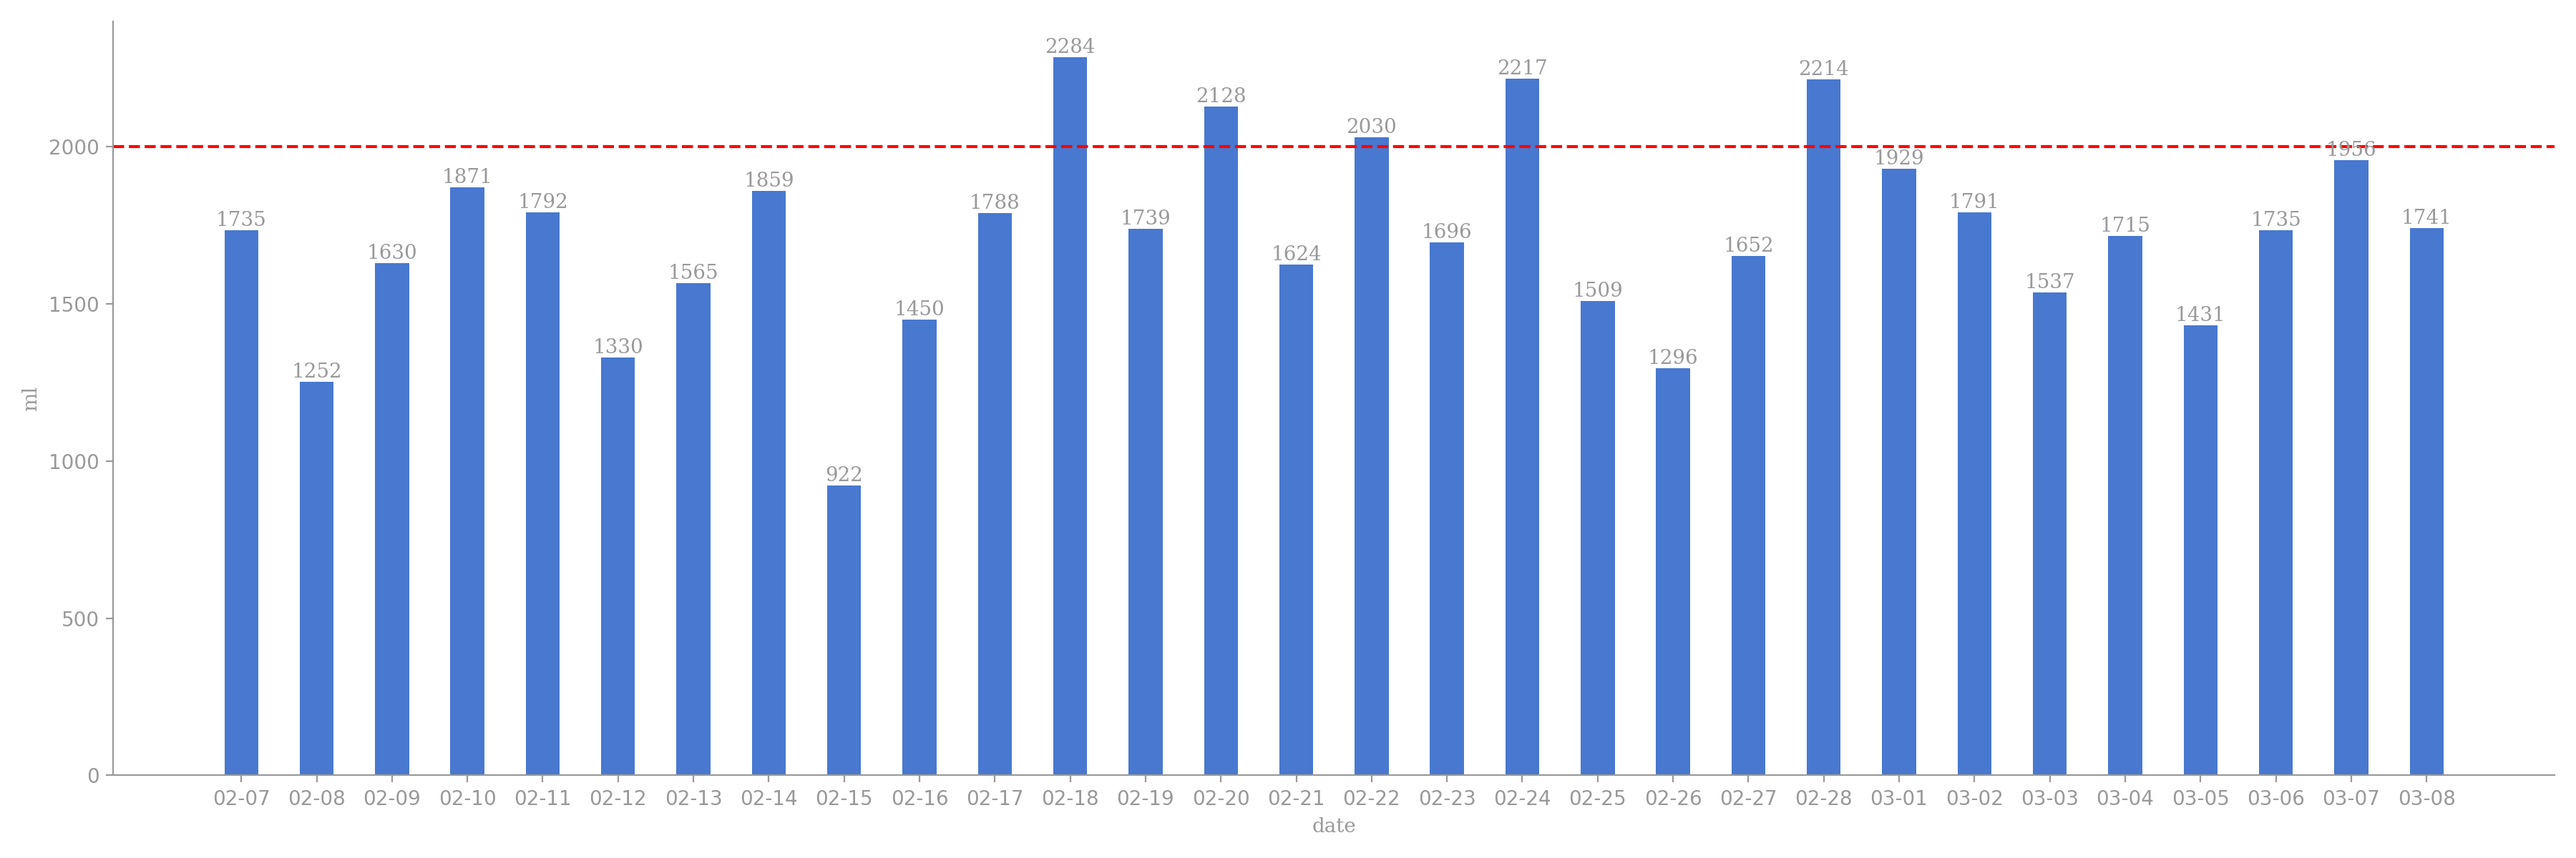
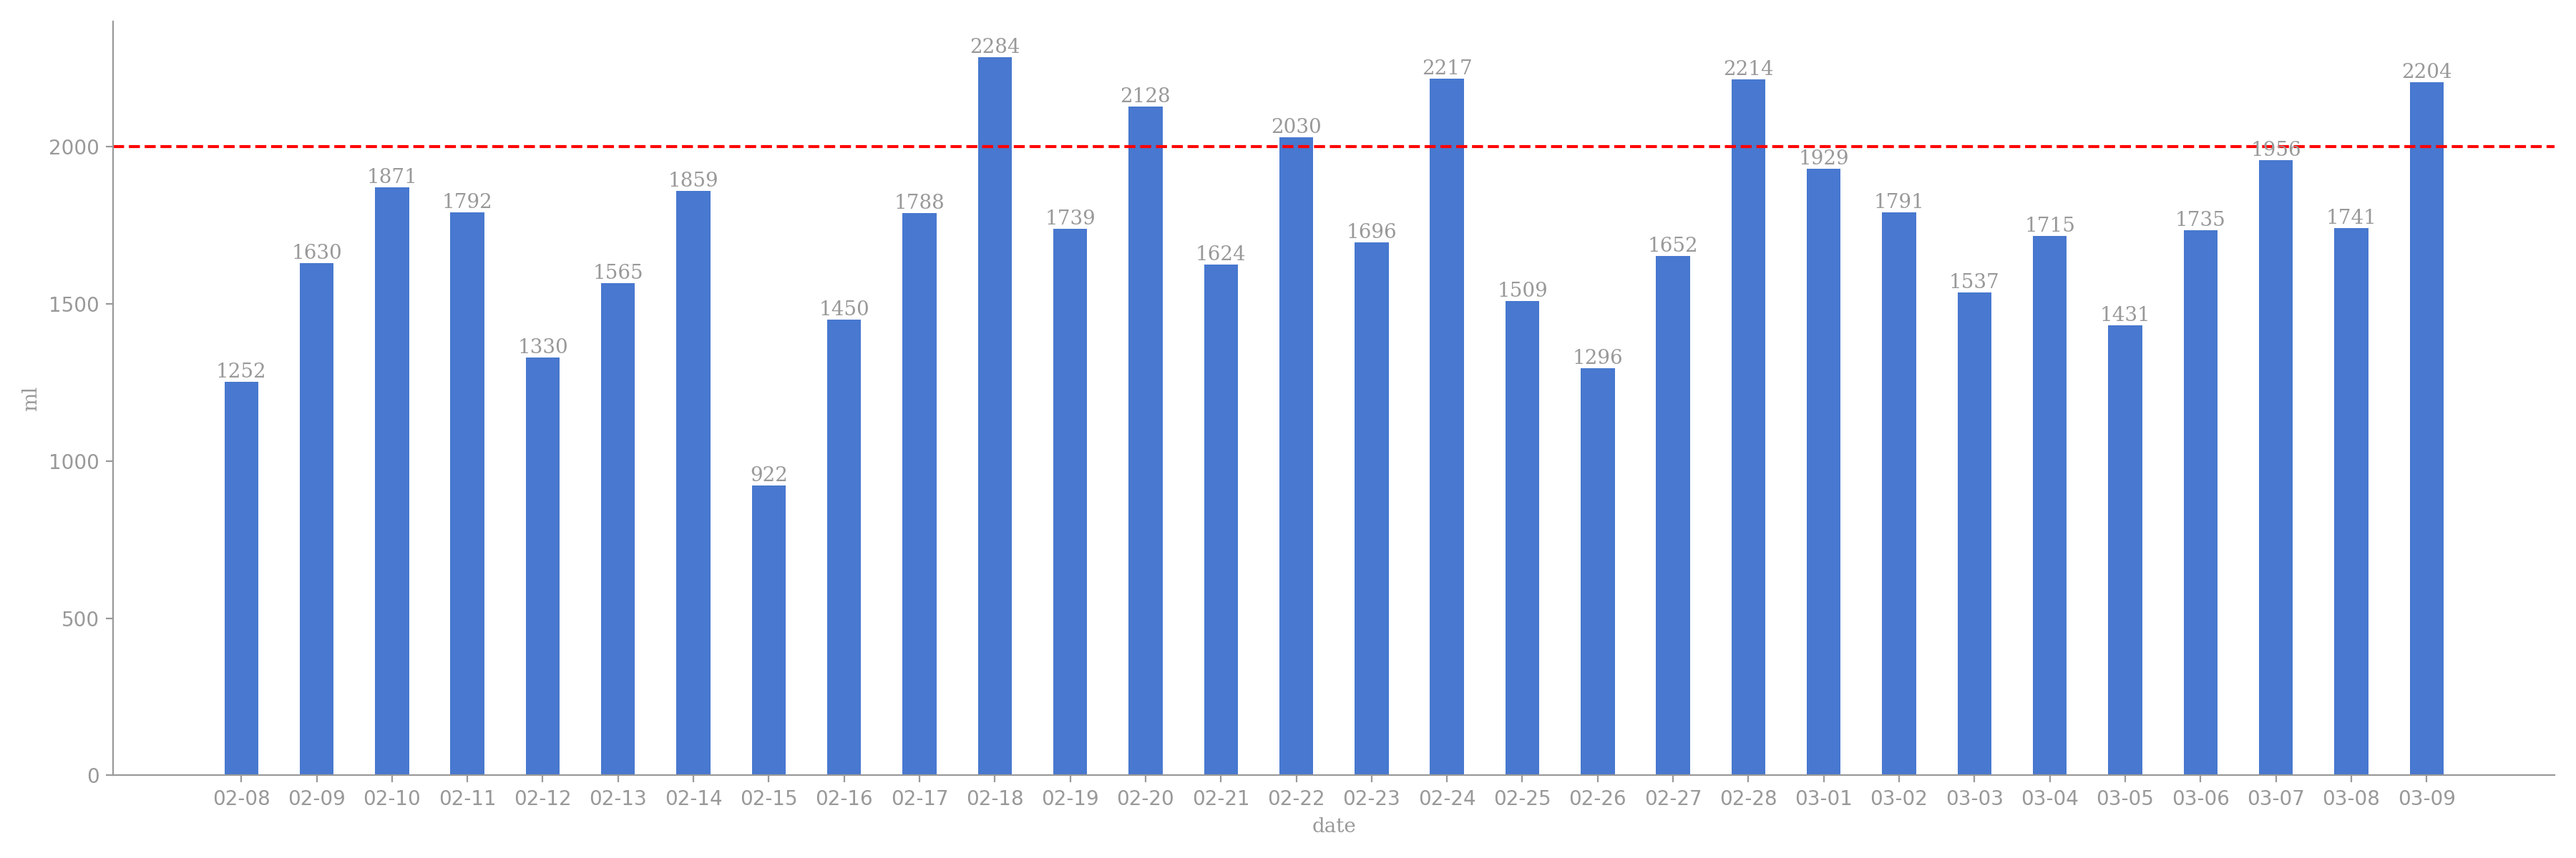
generated readme

Changed region(s): [[0.0622, 0.0308, 0.9644, 0.5858]]

diff --git a/README.md b/README.md
@@ -1,17 +1,3 @@
-# 今日饮水数据
-
-<div align=center>
-<img src="today.png" style="zoom: 100%;" />
-
-| 今日总饮水量 | 每小时平均饮水量 |
-| :----: | :----: |
-| 2204 | 169 |
-</div>
-
-| 日期 | 01:43:58 | 02:22:27 | 02:55:27 | 04:32:03 | 05:25:09 | 05:53:32 | 06:22:51 | 07:09:11 | 08:16:55 | 09:28:19 | 10:06:47 | 10:41:45 | 17:49:40 | 19:08:00 | 20:37:19 | 22:40:27 | 22:58:05 |
-| :----: | :----: | :----: | :----: | :----: | :----: | :----: | :----: | :----: | :----: | :----: | :----: | :----: | :----: | :----: | :----: | :----: | :----: |
-| 2025-03-09 | 68 | 79 | 63 | 121 | 92 | 103 | 132 | 63 | 63 | 83 | 67 | 63 | 74 | 250 | 63 | 400 | 420 |
-
 # 近30日饮水数据
 
 <div align=center>
@@ -19,8 +5,12 @@
 
 | 总饮水量 | 日均饮水量 |
 | :----: | :----: |
-| 51418 | 1713 |
+| 51887 | 1729 |
 </div>
+
+| 日期 | all | 01:43:58 | 02:22:27 | 02:55:27 | 04:32:03 | 05:25:09 | 05:53:32 | 06:22:51 | 07:09:11 | 08:16:55 | 09:28:19 | 10:06:47 | 10:41:45 | 17:49:40 | 19:08:00 | 20:37:19 | 22:40:27 | 22:58:05 |
+| :----: | :----: | :----: | :----: | :----: | :----: | :----: | :----: | :----: | :----: | :----: | :----: | :----: | :----: | :----: | :----: | :----: | :----: | :----: |
+| 2025-03-09 | 2204 | 68 | 79 | 63 | 121 | 92 | 103 | 132 | 63 | 63 | 83 | 67 | 63 | 74 | 250 | 63 | 400 | 420 |
 
 | 日期 | all | 00:03:19 | 01:33:23 | 02:03:39 | 03:42:19 | 04:52:40 | 06:01:03 | 08:32:43 | 08:33:33 | 17:01:34 | 18:23:18 | 20:54:32 | 22:15:54 | 23:42:18 |
 | :----: | :----: | :----: | :----: | :----: | :----: | :----: | :----: | :----: | :----: | :----: | :----: | :----: | :----: | :----: |
@@ -141,8 +131,4 @@
 | 日期 | all | 00:55:13 | 02:29:41 | 03:18:50 | 03:46:28 | 04:55:05 | 05:51:27 | 07:12:52 | 11:31:32 | 15:02:58 | 17:20:59 | 18:27:25 | 20:32:27 | 22:25:26 | 22:46:23 |
 | :----: | :----: | :----: | :----: | :----: | :----: | :----: | :----: | :----: | :----: | :----: | :----: | :----: | :----: | :----: | :----: |
 | 2025-02-07 | 1735 | 420 | 146 | 106 | 68 | 90 | 110 | 62 | 63 | 56 | 47 | 300 | 115 | 63 | 89 |
-
-| 日期 | all | 01:32:59 | 02:54:55 | 04:20:51 | 07:55:46 | 08:29:24 | 12:28:40 | 17:17:40 | 20:23:23 | 20:34:31 | 22:36:04 |
-| :----: | :----: | :----: | :----: | :----: | :----: | :----: | :----: | :----: | :----: | :----: | :----: |
-| 2025-02-06 | 1265 | 62 | 114 | 38 | 96 | 42 | 67 | 300 | 89 | 145 | 312 |
 
